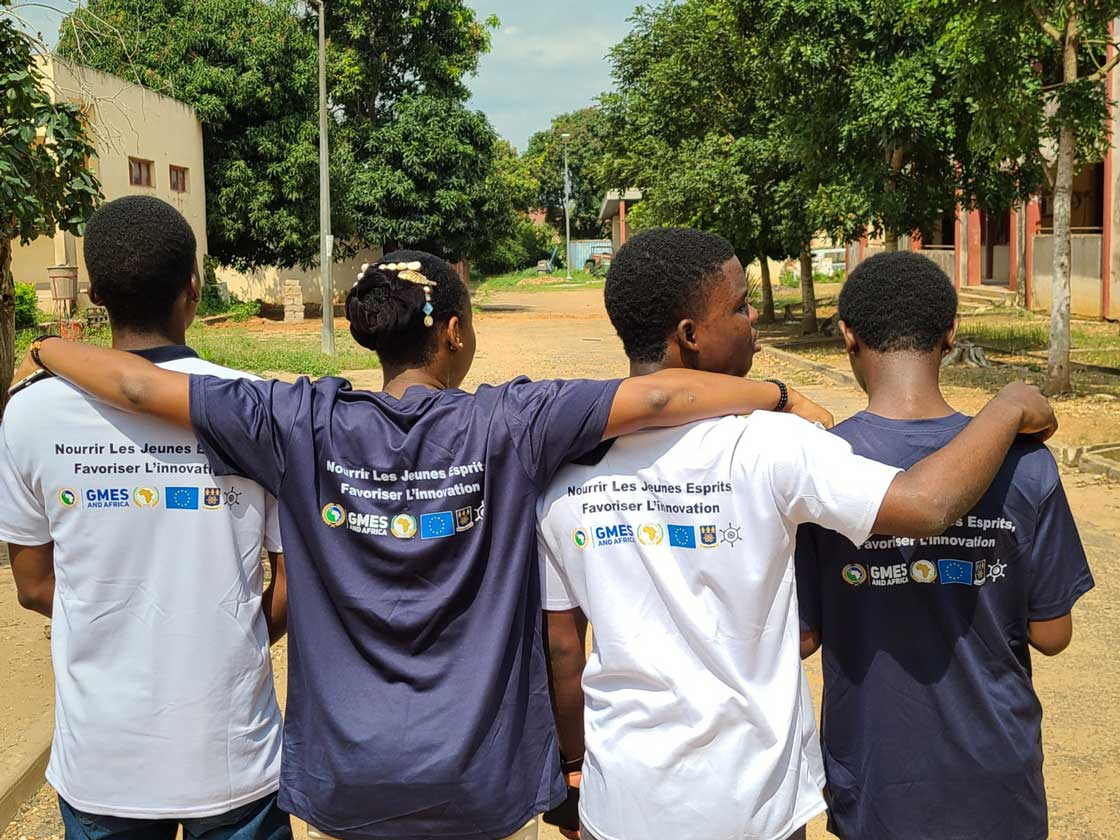
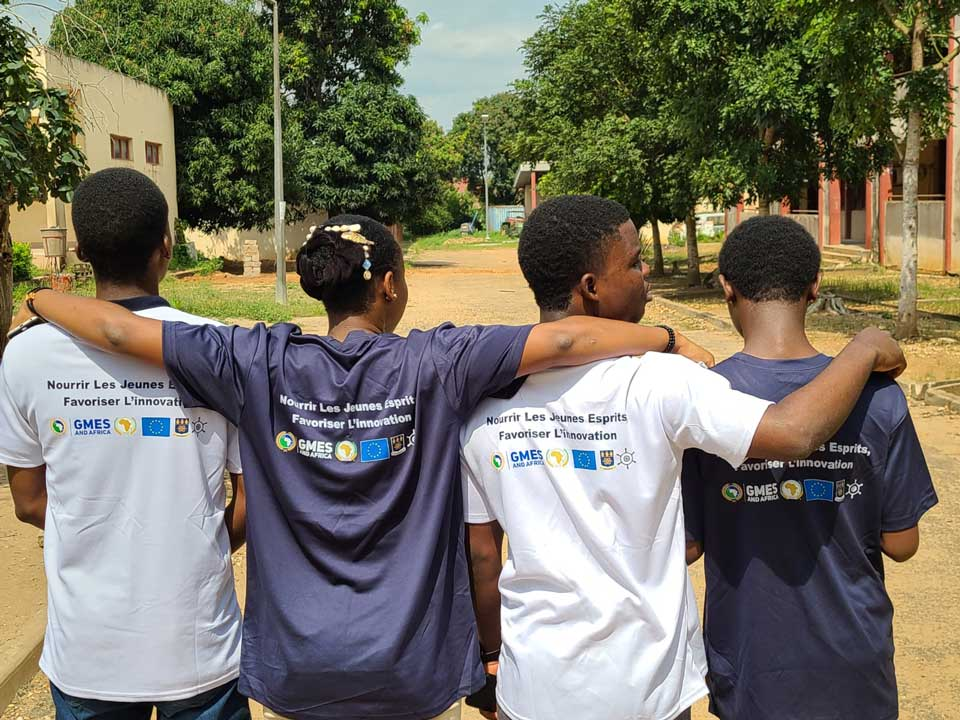
fix(ui): Update GAIAthon'25 Winners to GAIAthon'24 Winners and add new gallery images

Changed region(s): [[0.5938, 0.5806, 0.625, 0.6111], [0.5312, 0.6111, 0.5625, 0.6417]]

diff --git a/src/components/home/Features.tsx b/src/components/home/Features.tsx
@@ -168,7 +168,7 @@ export function Features() {
             className="text-center mb-12"
           >
             <h2 className="text-3xl font-bold text-gray-900">
-              GAIAthon'25 Winners
+              GAIAthon'24 Winners
             </h2>
             <p className="mt-4 text-lg text-gray-600">
               Celebrating innovative solutions from our latest hackathon
